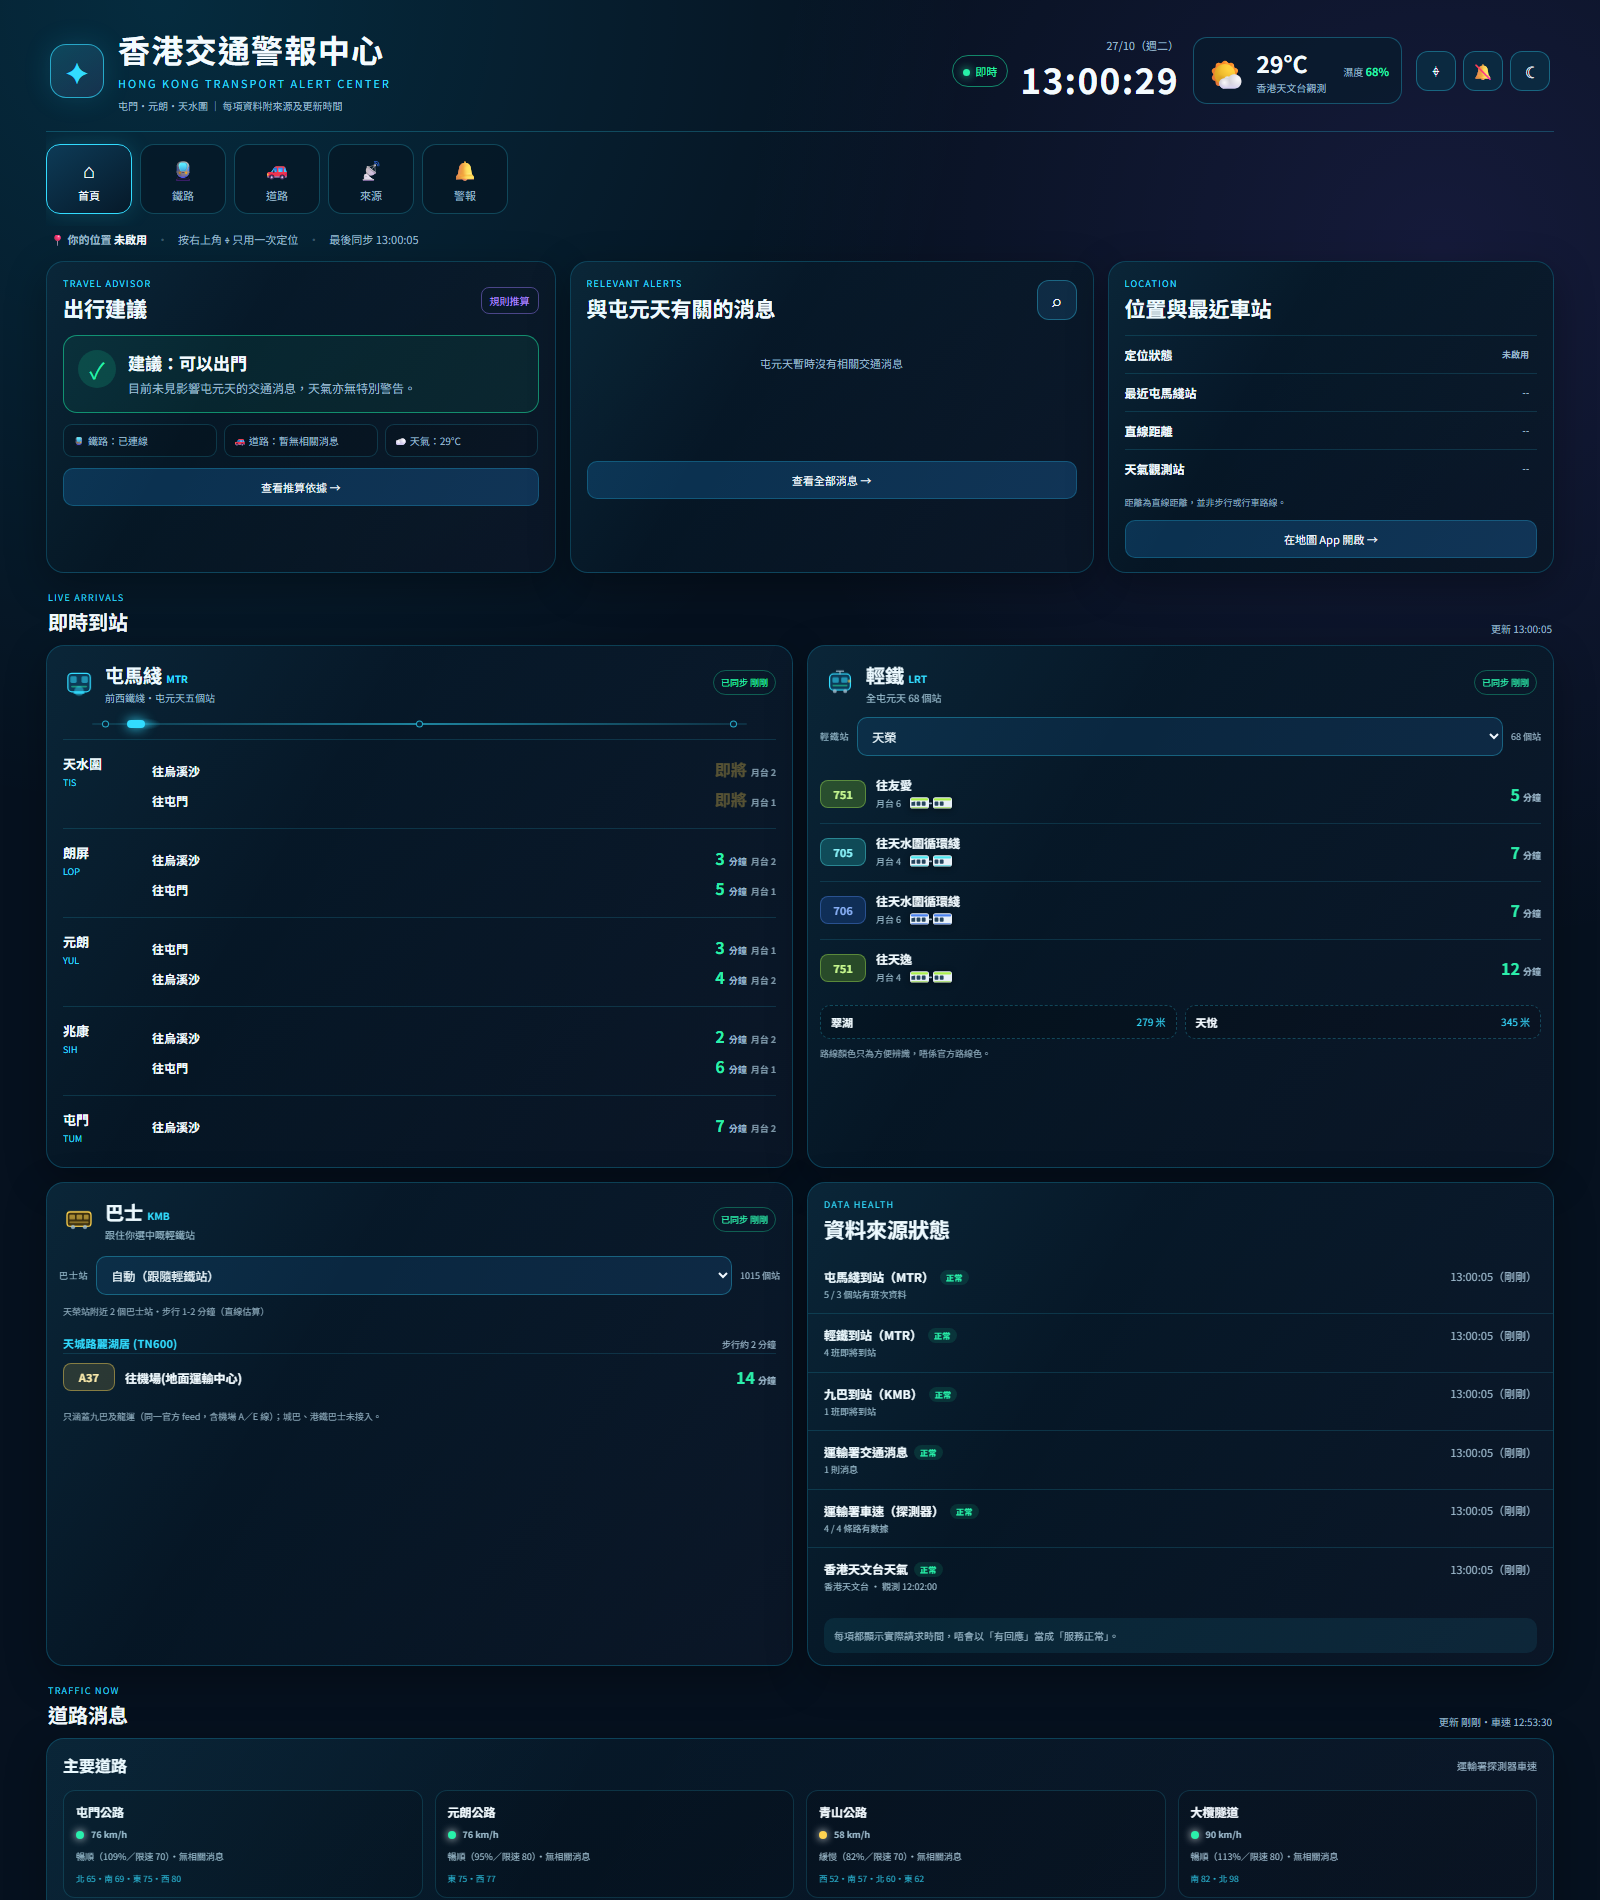
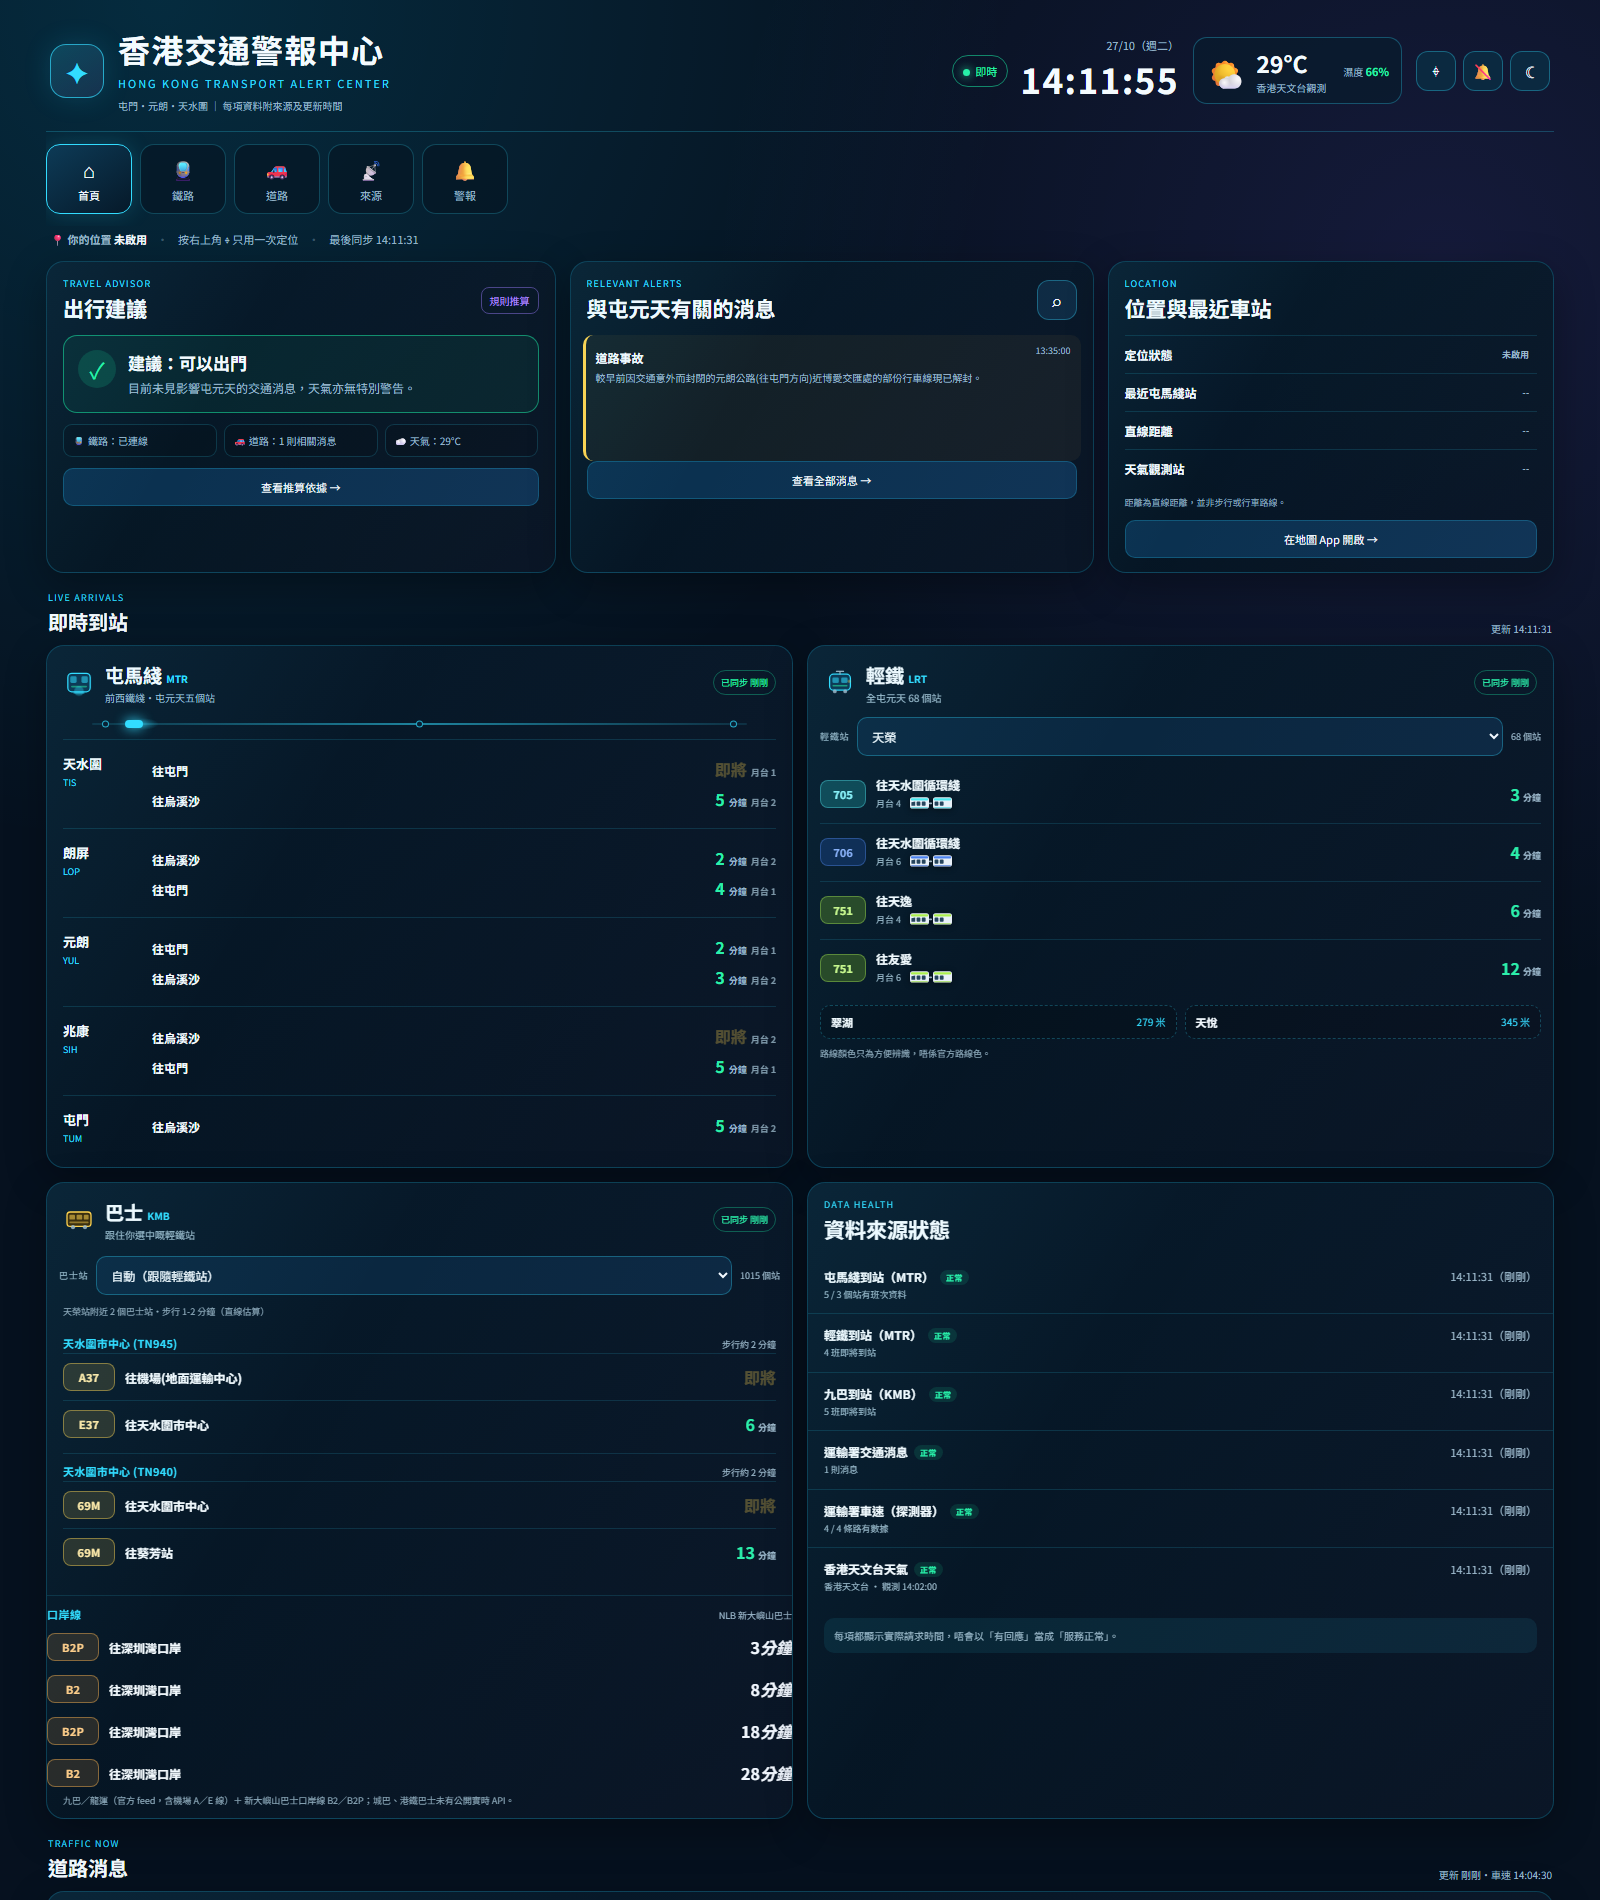
feat(bus): 加入 NLB 口岸線 B2/B2P 實時到站（MTR 巴士無公開 API）

diff --git a/src/api/nlb.ts b/src/api/nlb.ts
@@ -1,0 +1,58 @@
+import type { NlbArrival } from './types';
+import { array, isRecord, record } from '../lib/validate';
+import { getJson, type RequestOptions } from './client';
+
+/**
+ * 新大嶼山巴士（NLB）口岸線：B2（元朗站 → 深圳灣）、B2P（天水圍天慈邨 → 深圳灣）。
+ *
+ * 官方端點：rt.data.gov.hk/v2/transport/nlb/stop.php?action=estimatedArrivals
+ * 只回傳抵達時間字串，所以這裡即時換算為「幾分鐘後」。
+ */
+
+interface NlbLine {
+  readonly route: string;
+  readonly routeId: string;
+  readonly stopId: string;
+  readonly dest: string;
+}
+
+/** 站號由 NLB 官方 stop.php?action=list 取得（2026-10-27 核實）。 */
+export const NLB_LINES: readonly NlbLine[] = [
+  { route: 'B2', routeId: '37', stopId: '161', dest: '深圳灣口岸' },
+  { route: 'B2P', routeId: '33', stopId: '203', dest: '深圳灣口岸' },
+];
+
+function parseNlb(payload: unknown, line: NlbLine, now: Date): NlbArrival[] {
+  const root = record(payload, 'NLB 回應');
+  const list = array(root['arrivals'], 'NLB.arrivals');
+  const out: NlbArrival[] = [];
+  for (const entry of list) {
+    if (!isRecord(entry)) continue;
+    const time = entry['estimatedArrivalTime'];
+    if (typeof time !== 'string') continue;
+    const at = new Date(time.replace(' ', 'T') + '+08:00');
+    if (Number.isNaN(at.getTime())) continue;
+    const minutes = Math.round((at.getTime() - now.getTime()) / 60_000);
+    if (minutes < 0 || minutes > 180) continue;
+    out.push({ route: line.route, dest: line.dest, minutes });
+    if (out.length >= 2) break;
+  }
+  return out;
+}
+
+export async function fetchNlbArrivals(now: Date, options: RequestOptions): Promise<readonly NlbArrival[]> {
+  const results = await Promise.allSettled(
+    NLB_LINES.map((line) =>
+      getJson('/api/nlb', { route: line.routeId, stop: line.stopId }, (raw) => parseNlb(raw, line, now), options),
+    ),
+  );
+
+  const rows: NlbArrival[] = [];
+  let failures = 0;
+  for (const result of results) {
+    if (result.status === 'fulfilled') rows.push(...result.value);
+    else failures += 1;
+  }
+  if (rows.length === 0 && failures === NLB_LINES.length) throw new Error('口岸線資料暫時取不到');
+  return rows.sort((a, b) => a.minutes - b.minutes);
+}

diff --git a/worker/src/index.js b/worker/src/index.js
@@ -352,6 +352,33 @@ async function handlePushTest(url, request, env) {
   }
   return json({ ok: true, sent: results.length, results }, 200, request, env);
 }
+/**
+ * 新大嶼山巴士（NLB）到站：B2／B2P 等口岸線。
+ * 官方端點：rt.data.gov.hk/v2/transport/nlb/stop.php?action=estimatedArrivals
+ */
+async function handleNlb(url, request, env, ctx) {
+  const routeId = (url.searchParams.get('route') || '').replace(/\D/g, '');
+  const stopId = (url.searchParams.get('stop') || '').replace(/\D/g, '');
+  if (!routeId || !stopId) {
+    return json({ ok: false, error: '需要 route 及 stop 參數' }, 400, request, env);
+  }
+  const target = `https://rt.data.gov.hk/v2/transport/nlb/stop.php?action=estimatedArrivals&routeId=${routeId}&stopId=${stopId}&language=zh`;
+  const cacheKey = `${url.origin}/api/nlb?route=${routeId}&stop=${stopId}`;
+  return edgeCached(request, cacheKey, TTL.bus, ctx, async () => {
+    const upstream = await fetch(target, { headers: { 'User-Agent': 'hk-traffic-super-screen/2.5' } });
+    if (!upstream.ok) {
+      return json({ ok: false, error: `NLB ${upstream.status}` }, 502, request, env);
+    }
+    const body = await upstream.text();
+    let data;
+    try {
+      data = JSON.parse(body);
+    } catch {
+      return json({ ok: false, error: 'NLB 回應格式錯誤' }, 502, request, env);
+    }
+    return json({ ok: true, arrivals: data.estimatedArrivals ?? [] }, 200, request, env, TTL.bus);
+  });
+}
 /** 極簡 XML 取值（Worker 冇 DOMParser）。 */
 function pickTag(block, tag) {
   const match = new RegExp(`<${tag}>([\\s\\S]*?)</${tag}>`).exec(block);
@@ -476,7 +503,8 @@ export default {
           return json({ ok: true, now: new Date().toISOString() }, 200, request, env);
         case '/api/rail':
           return await handleRail(url, request, env, ctx);
-        case '/api/bus':
+        case '/api/nlb':
+          return await handleNlb(url, request, env, ctx);        case '/api/bus':
           return await handleBus(url, request, env, ctx);
         case '/api/bus/stops':
           return await edgeCached(request, `${url.origin}/api/bus/stops`, TTL.info, ctx, async () =>

diff --git a/src/ui/bus.ts b/src/ui/bus.ts
@@ -1,4 +1,4 @@
-import type { AppState } from '../api/types';
+import type { AppState, NlbArrival } from '../api/types';
 import { loadBusStops } from '../api/bus';
 import { groupByStop } from '../core/bus';
 import { busStopsFor, stationName } from '../core/places';
@@ -75,6 +75,43 @@ export function initBusPicker(handlers: BusHandlers): void {
   on(select, 'change', () => handlers.selectBusStop(select.value));
 }
 
+function nlbRow(row: NlbArrival): HTMLElement {
+  const eta = etaText(row.minutes);
+  return h(
+    'div',
+    { class: 'nlb-row' },
+    h('span', { class: 'bus-chip nlb-chip', text: row.route }),
+    h('div', { class: 'bus-info' }, h('b', { text: `往${row.dest}` })),
+    h(
+      'strong',
+      { class: eta.due ? 'due' : undefined },
+      h('span', { class: eta.due ? 'eta-value eta-soon' : 'eta-value', text: eta.value }),
+      eta.unit ? h('em', { text: eta.unit }) : null,
+    ),
+  );
+}
+
+/** 口岸線（B2／B2P）——與九巴分開呈現，因為營運商同資料源都唔同。 */
+export function renderNlb(state: AppState): void {
+  const block = document.getElementById('nlb-block');
+  const list = byId('nlb-list');
+  if (!block) return;
+
+  if (!state.nlb.data) {
+    if (state.nlb.state === 'error') {
+      replace(list, h('div', { class: 'state-empty', text: state.nlb.error ?? '口岸線資料暫時取不到' }));
+    } else {
+      replace(list, h('span', { class: 'skeleton', aria: { hidden: 'true' } }));
+    }
+    return;
+  }
+
+  if (state.nlb.data.length === 0) {
+    replace(list, h('div', { class: 'state-empty', text: '口岸線暫無即將開出班次' }));
+    return;
+  }
+  replace(list, ...state.nlb.data.map(nlbRow));
+}
 export function renderBus(state: AppState, now: Date): void {
   setText(byId('bus-badge'), badgeText(state.bus, now));
 

diff --git a/src/main.ts b/src/main.ts
@@ -3,6 +3,7 @@ import './styles/extra.css';
 
 import { errorMessage } from './api/client';
 import { fetchBusArrivals, loadBusStops, type BusStopRef } from './api/bus';
+import { fetchNlbArrivals } from './api/nlb';
 import { fetchLrtStations } from './api/lrt';
 import { PartialFailureError, TML_CODES, fetchTmlBatch } from './api/mtr';
 import { fetchTrafficNews } from './api/traffic';
@@ -85,6 +86,7 @@ const store = createStore<AppState>({
   tml: idleSlice(),
   lrt: idleSlice(),
   bus: idleSlice(),
+  nlb: idleSlice(),
   roads: idleSlice(),
   weather: idleSlice(),
   traffic: idleSlice(),
@@ -400,6 +402,20 @@ function startJobs(sched: Scheduler): void {
     },
   });
 
+  sched.add({
+    name: 'nlb',
+    everyMs: 60_000,
+    async run(signal) {
+      store.update({ nlb: beginLoad(store.get().nlb) });
+      const started = performance.now();
+      try {
+        const rows = await fetchNlbArrivals(new Date(), { signal });
+        store.update({ nlb: succeed(rows, performance.now() - started) });
+      } catch (error) {
+        store.update({ nlb: failed(store.get().nlb, errorMessage(error)) });
+      }
+    },
+  });
   sched.add({
     name: 'roads',
     everyMs: REFRESH_MS.roads,

diff --git a/index.html b/index.html
@@ -106,7 +106,11 @@
       </div>
       <p class="source-note bus-stops" id="bus-stops">—</p>
       <div id="bus-list" class="bus-list"></div>
-      <p class="source-note">只涵蓋九巴及龍運（同一官方 feed，含機場 A／E 線）；城巴、港鐵巴士未接入。</p>
+      <div class="nlb-block" id="nlb-block">
+        <div class="nlb-head"><span>口岸線</span><small>NLB 新大嶼山巴士</small></div>
+        <div id="nlb-list" class="nlb-list"></div>
+      </div>
+      <p class="source-note">九巴／龍運（官方 feed，含機場 A／E 線）＋ 新大嶼山巴士口岸線 B2／B2P；城巴、港鐵巴士未有公開實時 API。</p>
     </article>
     <article id="sources" class="rail-status panel">
       <div class="panel-head"><div><span class="eyebrow">DATA HEALTH</span><h2>資料來源狀態</h2></div></div>

diff --git a/src/ui/app.ts b/src/ui/app.ts
@@ -1,6 +1,6 @@
 import type { AppState } from '../api/types';
 import { renderAdvice } from './advice';
-import { renderBus } from './bus';
+import { renderBus, renderNlb } from './bus';
 import { renderFavorites, type FavoritesHandlers } from './misc';
 import { renderLocation } from './location';
 import { renderMessages, renderRelevant, renderRoads } from './roads';
@@ -24,6 +24,7 @@ export function renderApp(state: AppState, handlers: AppHandlers): void {
   renderAdvice(state);
   renderRail(state, now, handlers.rail);
   renderBus(state, now);
+  renderNlb(state);
   renderWeather(state.weather, now);
   renderRoads(state.traffic, state.roads, now);
   renderMessages(state.traffic, state.ui.filter);

diff --git a/src/styles/extra.css b/src/styles/extra.css
@@ -296,3 +296,11 @@
 /* 巴士站下拉（1015 個站） */
 .bus-picker{padding-top:2px}
 .bus-picker select{max-width:100%}
+
+/* 口岸線（NLB） */
+.nlb-block{margin-top:10px;border-top:1px solid rgba(50,220,255,.14);padding-top:8px}
+.nlb-head{display:flex;align-items:baseline;justify-content:space-between;gap:8px;padding:2px 0 4px}
+.nlb-head span{font-size:11px;color:var(--cyan);font-weight:600;letter-spacing:.04em}
+.nlb-head small{font-size:9px;color:var(--muted)}
+.nlb-row{display:grid;grid-template-columns:52px 1fr auto;gap:10px;align-items:center;padding:7px 0}
+.nlb-chip{background:rgba(255,180,80,.14);border-color:rgba(255,180,80,.45);color:#ffce8a}

diff --git a/src/api/types.ts b/src/api/types.ts
@@ -124,11 +124,18 @@ export interface UiState {
   readonly busStop: string;
 }
 
+export interface NlbArrival {
+  readonly route: string;
+  readonly dest: string;
+  readonly minutes: number;
+}
+
 export interface AppState {
   readonly conn: ConnState;
   readonly tml: Slice<Readonly<Partial<Record<string, StationArrivals>>>>;
   readonly lrt: Slice<readonly LrtRow[]>;
   readonly bus: Slice<readonly BusArrival[]>;
+  readonly nlb: Slice<readonly NlbArrival[]>;
   readonly roads: Slice<RoadSnapshot>;
   readonly weather: Slice<WeatherReading>;
   readonly traffic: Slice<readonly TrafficItem[]>;
